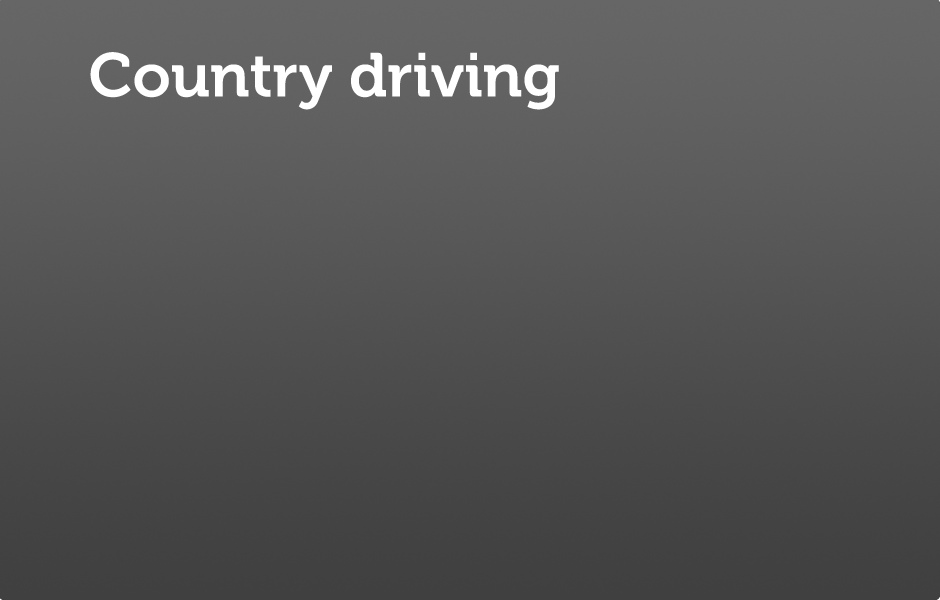
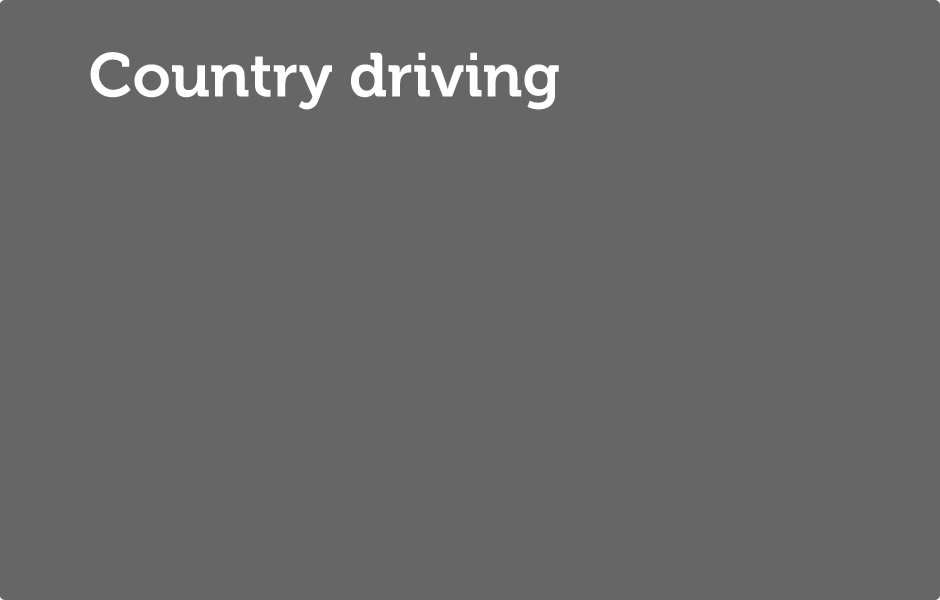
New bkgs no gradient

diff --git a/css/common.css b/css/common.css
@@ -21,6 +21,9 @@
 	height: 600px;
 	width: 940px;
 }
+.videoContainer {
+	
+}
 
 h1 {
 	font-family: 'Museo700Regular';
